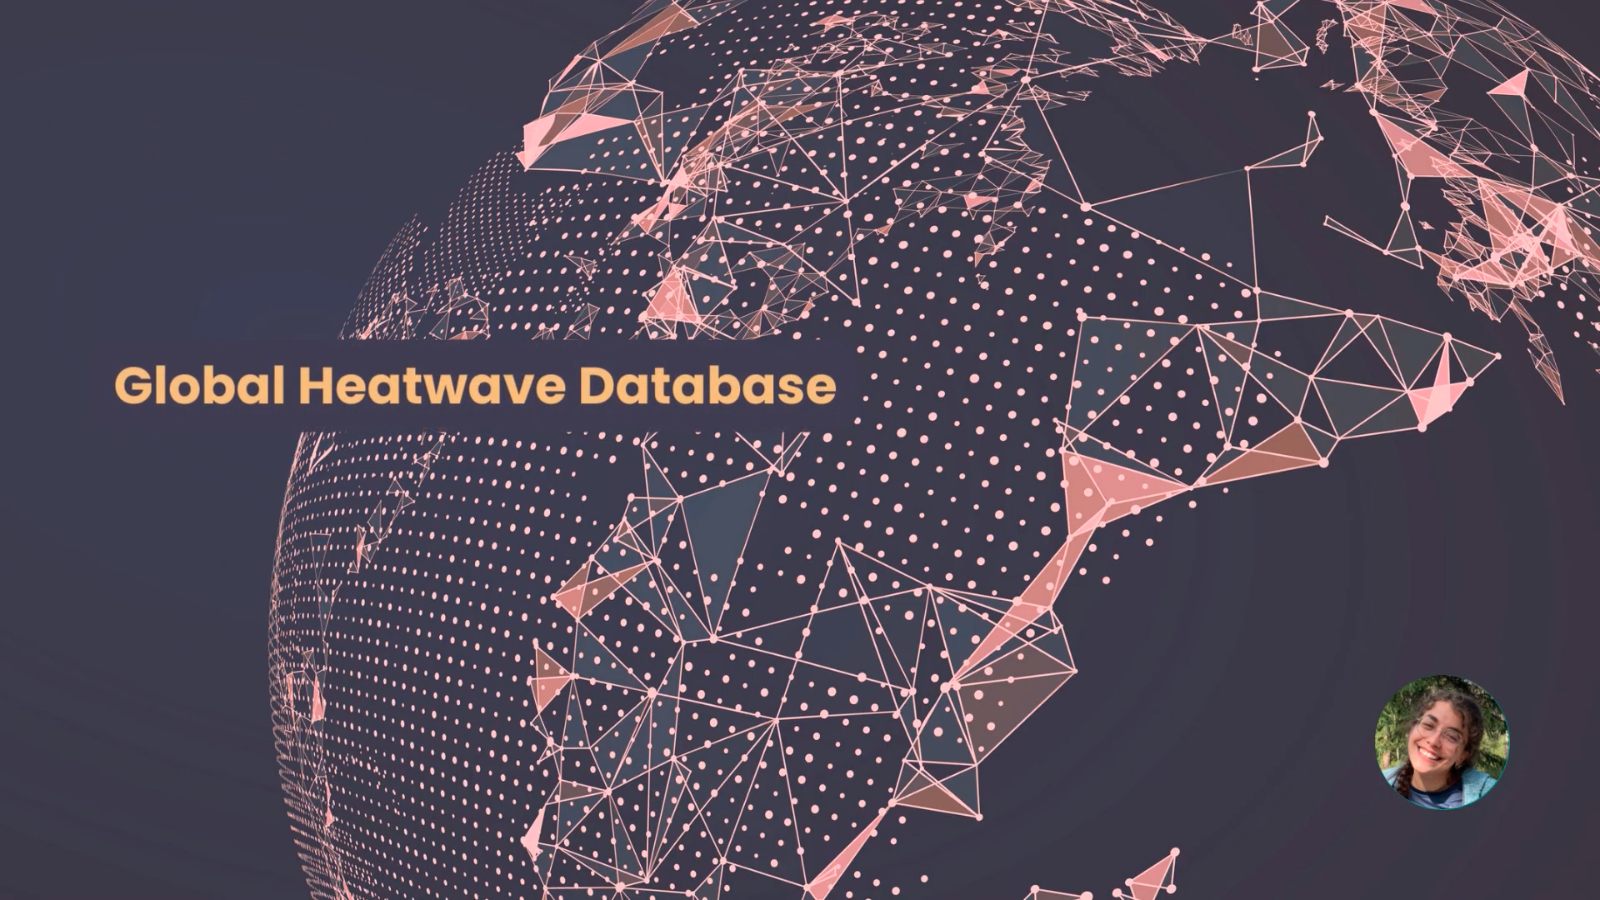
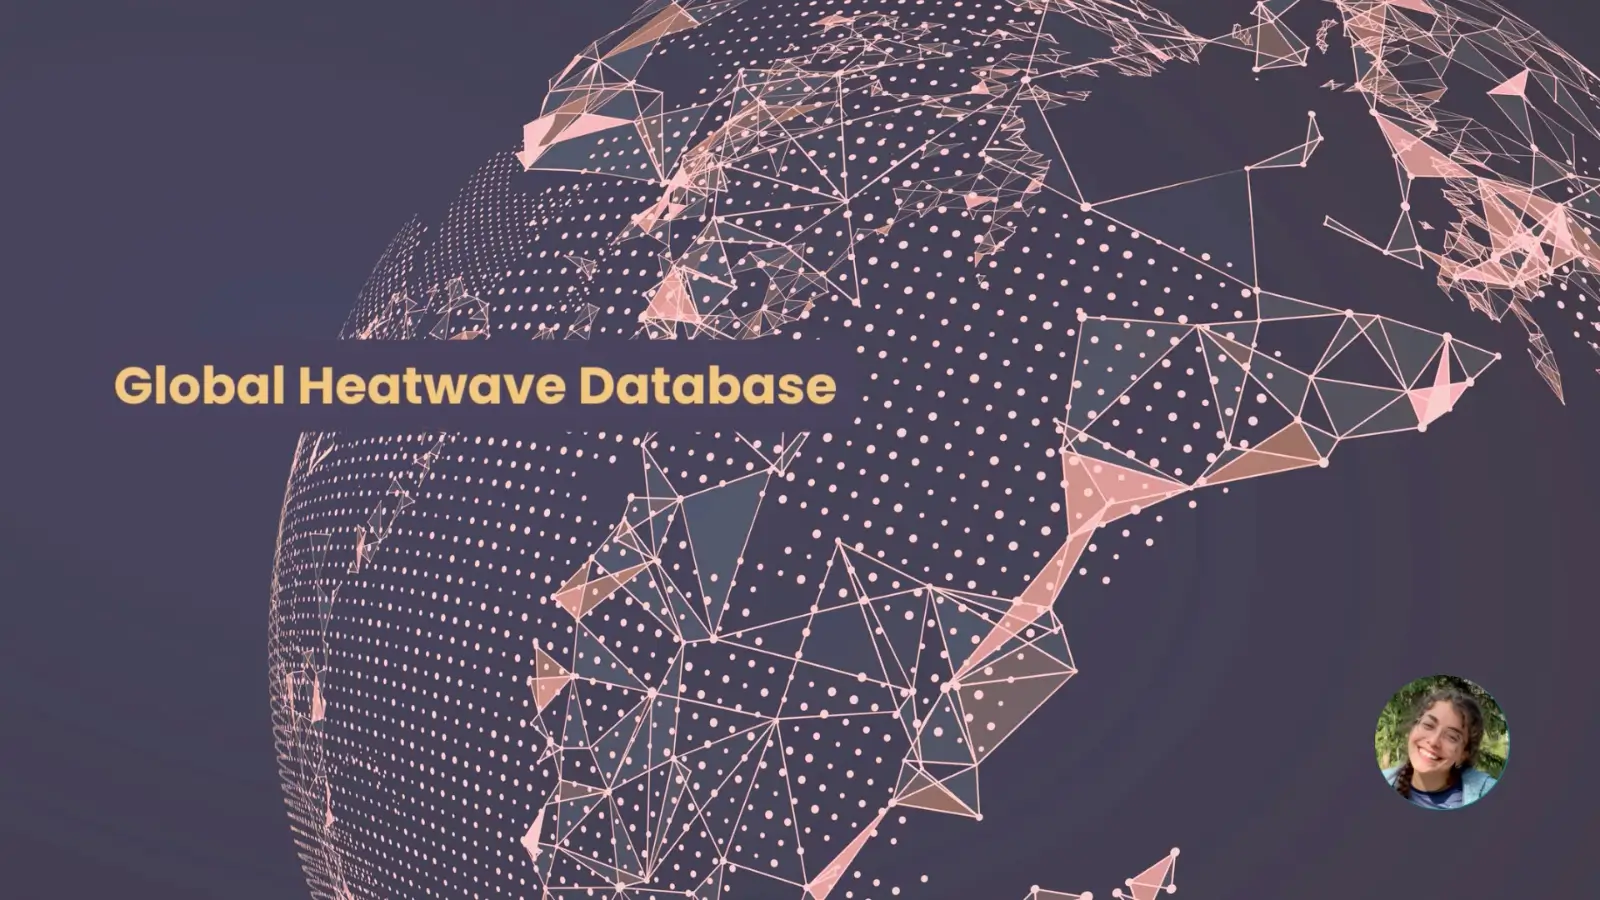
added image sizes

Changed region(s): [[0.9062, 0.8711, 0.9375, 0.9022], [0.2188, 0.3422, 0.25, 0.3733]]

diff --git a/index.html b/index.html
@@ -36,7 +36,7 @@
     <div class="fixed w5 vh-100 dn flex-l justify-between flex-column" id="sidebar">
       <div class="tc dn db-l">
         <a href="#intro">
-          <img src="assets/logo.webp" alt="Jasmine Zyp Logo" class="w-80" href="#intro">
+          <img src="assets/logo.webp" alt="Jasmine Zyp Logo" class="w-80" href="#intro" width="250" height="250">
         </a>
       </div>
       <nav class="w5 flex flex-column items-center justify-center">
@@ -99,7 +99,7 @@
           About Me
         </h2>
         <section class="flex flex-wrap justify-center  mh5-ns">
-          <img src="assets/jasmine-headshot.webp" alt="Jasmine Zyp" class="vh-75-l shadow-4">
+          <img src="assets/jasmine-headshot.webp" alt="Jasmine Zyp" class="vh-75-l shadow-4" width="500" height="660">
           <div class="bg-light mh5-l mv3 pa3 f3 lh-copy shadow-4 flex flex-column justify-around about-text">
             <p class="dn db-ns ma0">
               Driven by a belief that data can make a difference, I thrive on
